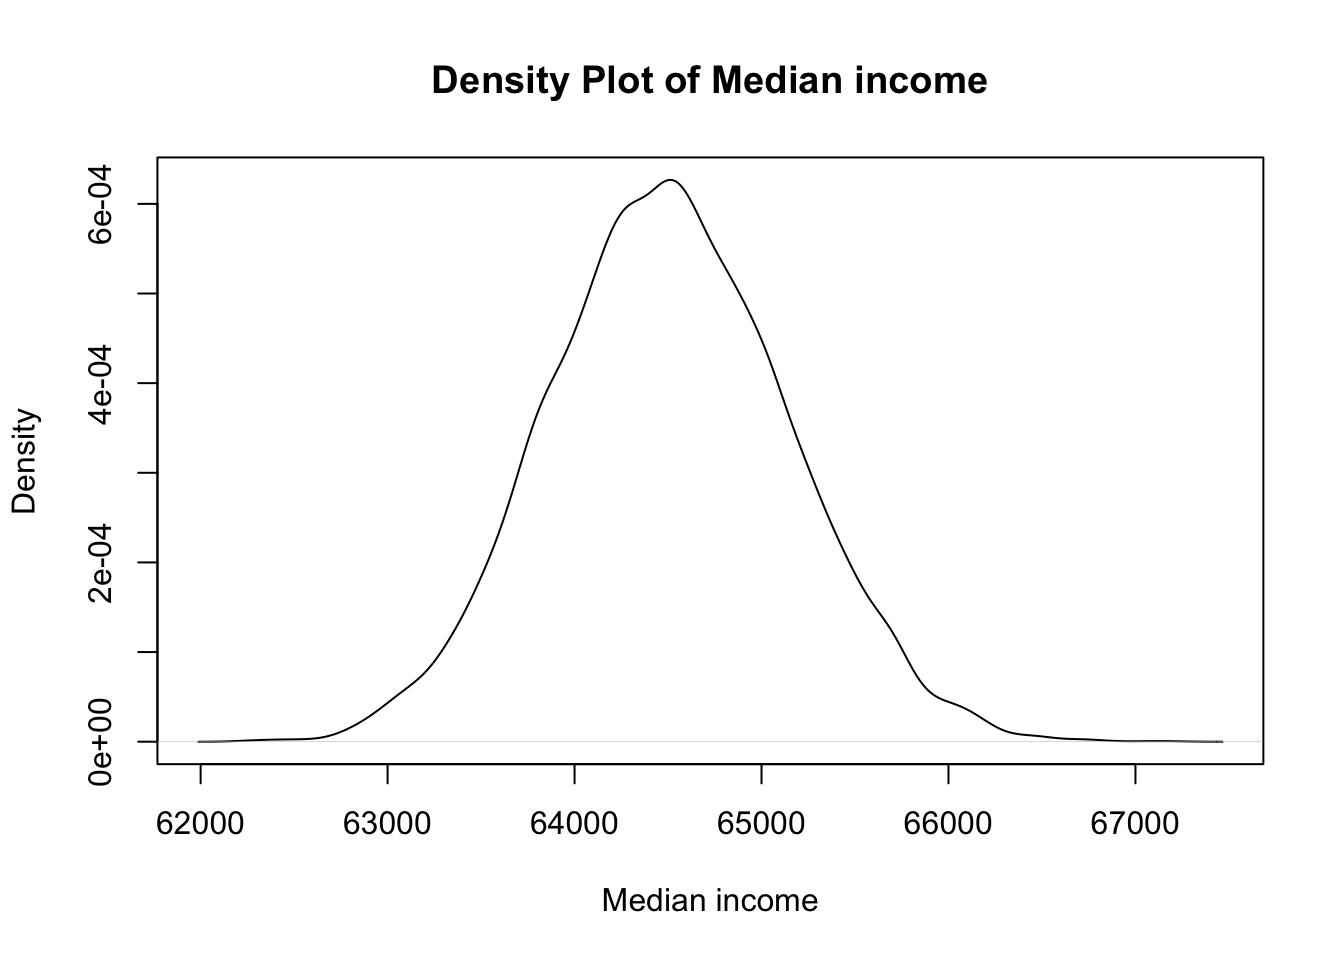
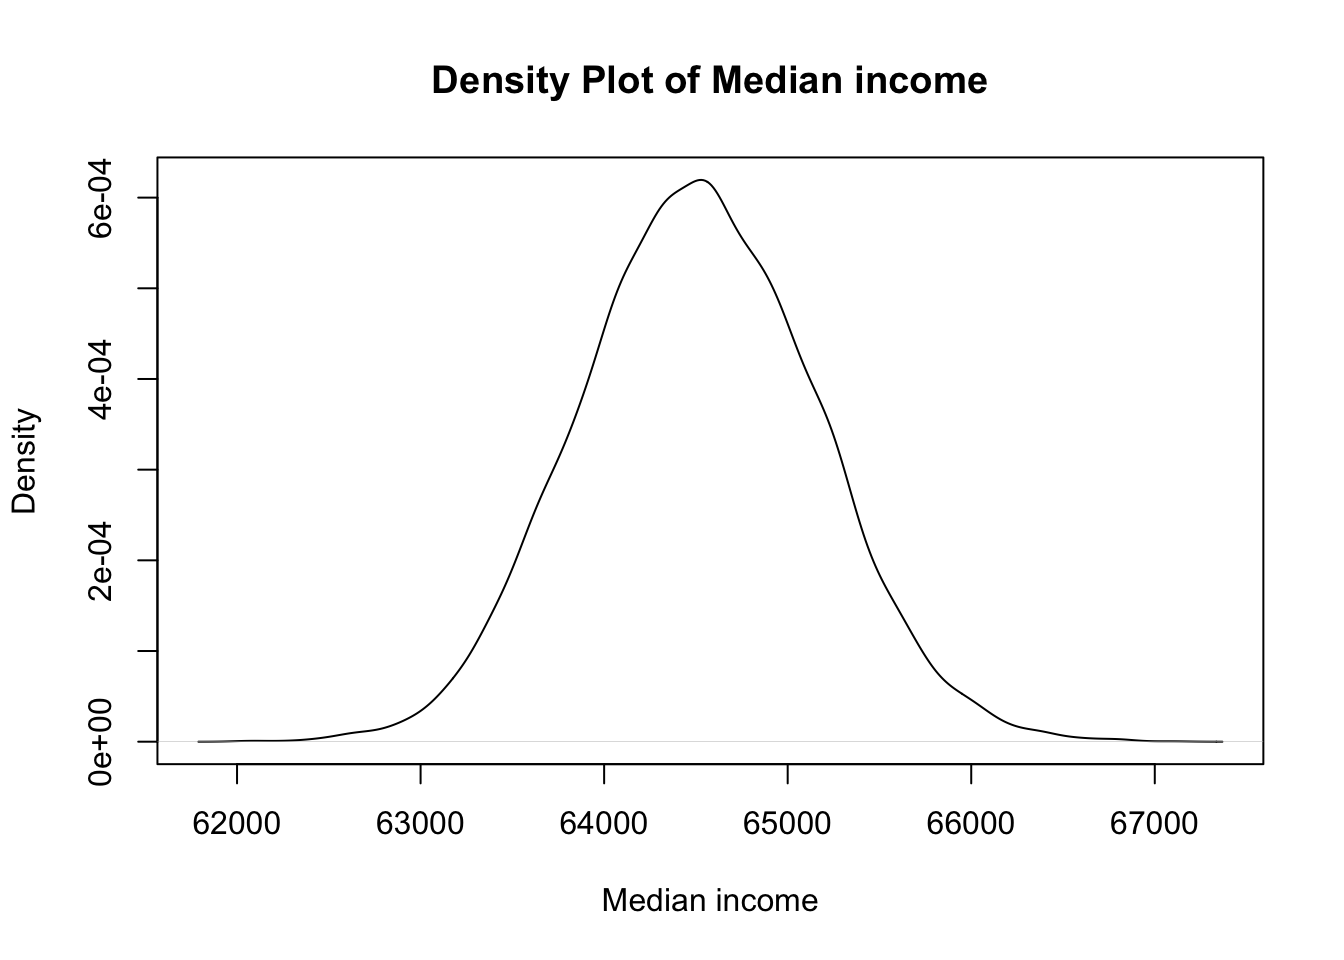
4221024

diff --git a/docs/Revision notes/Basic science/Bone.html b/docs/Revision notes/Basic science/Bone.html
@@ -107,8 +107,10 @@ cookieconsent.run({
 
 <link rel="stylesheet" href="../../styles.css">
 <meta property="og:title" content="Introduction – knotes">
+<meta property="og:description" content="Kishore Puthezhath’s official website">
 <meta property="og:site_name" content="knotes">
 <meta name="twitter:title" content="Introduction – knotes">
+<meta name="twitter:description" content="Kishore Puthezhath’s official website">
 <meta name="twitter:card" content="summary">
 </head>
 
@@ -973,13 +975,7 @@ cookieconsent.run({
 <script type="text/javascript" src="//s3.amazonaws.com/downloads.mailchimp.com/js/mc-validate.js"></script><script type="text/javascript">(function($) {window.fnames = new Array(); window.ftypes = new Array();fnames[0]='EMAIL';ftypes[0]='email';fnames[1]='FNAME';ftypes[1]='text';fnames[2]='LNAME';ftypes[2]='text';fnames[3]='ADDRESS';ftypes[3]='address';fnames[4]='PHONE';ftypes[4]='phone';fnames[5]='BIRTHDAY';ftypes[5]='birthday';}(jQuery));var $mcj = jQuery.noConflict(true);</script></div>
 
 </div></div>
-        <nav id="TOC" role="doc-toc" class="toc-active">
-    <h2 id="toc-title">On this page</h2>
-   
-  <ul>
-  <li><a href="#section" id="toc-section" class="nav-link active" data-scroll-target="#section"></a></li>
-  </ul>
-</nav>
+        
     </div>
 <!-- main -->
 <main class="content" id="quarto-document-content">
@@ -1003,11 +999,11 @@ cookieconsent.run({
 </header>
 
 
-<section id="section" class="level3">
-<h3 class="anchored" data-anchor-id="section"></h3>
+<p>Here, you will have unlimited access to <strong>high-quality content encompassing the entirety of Orthopaedics</strong>, covering all the knowledge you could ever need. Most importantly, <strong>this resource is guaranteed to remain free forever</strong>. You will have the opportunity to learn at your own pace on clinically relevant and timely topics, while consistently experiencing palpable enhancement in your knowledge. This platform offers a unique learning experience that drives continuous improvement in quality practice every day.</p>
+<p>The content is organized into five main sections, each divided into various subcategories that function as individual lessons. The goal is that, by completing the entire course, your knowledge will be thorough enough to pass the first part of the fellowship examination.</p>
+<p><strong>This is a continuous project and will expand over time</strong>. Eventually, each lesson will include hand drawn diagrams, a video lecture, and additional related materials.</p>
 
 
-</section>
 
 <a onclick="window.scrollTo(0, 0); return false;" role="button" id="quarto-back-to-top"><i class="bi bi-arrow-up"></i> Back to top</a></main> <!-- /main -->
 <script id="quarto-html-after-body" type="application/javascript">

diff --git a/docs/posts/montecarlo.html b/docs/posts/montecarlo.html
@@ -1218,7 +1218,7 @@ Income distribution is not normal
 </details>
 <div class="cell-output cell-output-stdout">
 <pre><code>     Min.   1st Qu.    Median      Mean   3rd Qu.      Max. 
-   212374    296500    344329    626441    438780 560719565 </code></pre>
+   210222    295890    341908    629805    434661 438922464 </code></pre>
 </div>
 <details open="" class="code-fold">
 <summary>Code</summary>
@@ -1226,7 +1226,7 @@ Income distribution is not normal
 </details>
 <div class="cell-output cell-output-stdout">
 <pre><code>   Min. 1st Qu.  Median    Mean 3rd Qu.    Max. 
-  62262   64068   64492   64502   64929   67191 </code></pre>
+  62064   64073   64510   64512   64946   67094 </code></pre>
 </div>
 <details open="" class="code-fold">
 <summary>Code</summary>
@@ -1234,7 +1234,7 @@ Income distribution is not normal
 </details>
 <div class="cell-output cell-output-stdout">
 <pre><code>     Min.   1st Qu.    Median      Mean   3rd Qu.      Max. 
-9.306e+05 3.354e+06 5.689e+06 3.319e+07 1.212e+07 5.571e+10 </code></pre>
+7.935e+05 3.297e+06 5.635e+06 3.353e+07 1.171e+07 4.384e+10 </code></pre>
 </div>
 </div>
 </section>

diff --git a/docs/Biomedical/Research Methodology/wrangling.html b/docs/Biomedical/Research Methodology/wrangling.html
@@ -2514,10 +2514,10 @@ Record
 <pre><code>     age   sex  class
    &lt;int&gt; &lt;int&gt; &lt;fctr&gt;
 1:     1     1  child
-2:     2     0  child
-3:     3     1  child
-4:     4     0  child
-5:     5     0  child
+2:     2     1  child
+3:     3     0  child
+4:     4     1  child
+5:     5     1  child
 6:     6     1  child</code></pre>
 </div>
 </div>
@@ -2537,10 +2537,10 @@ Record
      age      0      1
    &lt;int&gt; &lt;fctr&gt; &lt;fctr&gt;
 1:     1   &lt;NA&gt;  child
-2:     2  child   &lt;NA&gt;
-3:     3   &lt;NA&gt;  child
-4:     4  child   &lt;NA&gt;
-5:     5  child   &lt;NA&gt;
+2:     2   &lt;NA&gt;  child
+3:     3  child   &lt;NA&gt;
+4:     4   &lt;NA&gt;  child
+5:     5   &lt;NA&gt;  child
 6:     6   &lt;NA&gt;  child</code></pre>
 </div>
 </div>

diff --git a/docs/Revision notes/Diagrams/diagrams.html b/docs/Revision notes/Diagrams/diagrams.html
@@ -1507,7 +1507,7 @@ window.document.addEventListener("DOMContentLoaded", function (event) {
 </div>
   </div>
 </footer>
-<script>var lightboxQuarto = GLightbox({"loop":false,"selector":".lightbox","closeEffect":"zoom","openEffect":"zoom","descPosition":"bottom"});
+<script>var lightboxQuarto = GLightbox({"descPosition":"bottom","closeEffect":"zoom","loop":false,"openEffect":"zoom","selector":".lightbox"});
 (function() {
   let previousOnload = window.onload;
   window.onload = () => {
